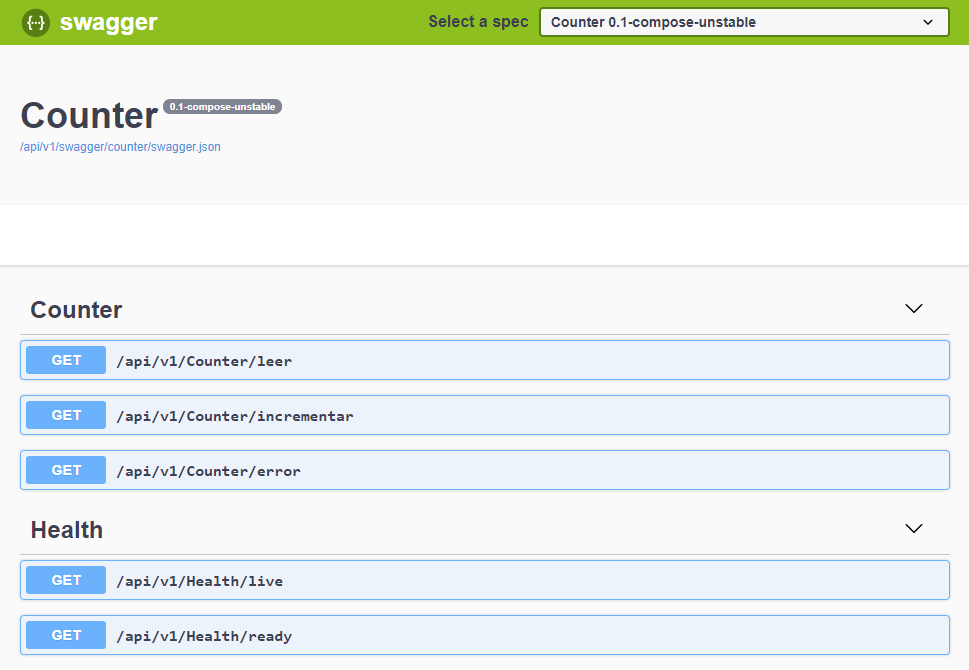
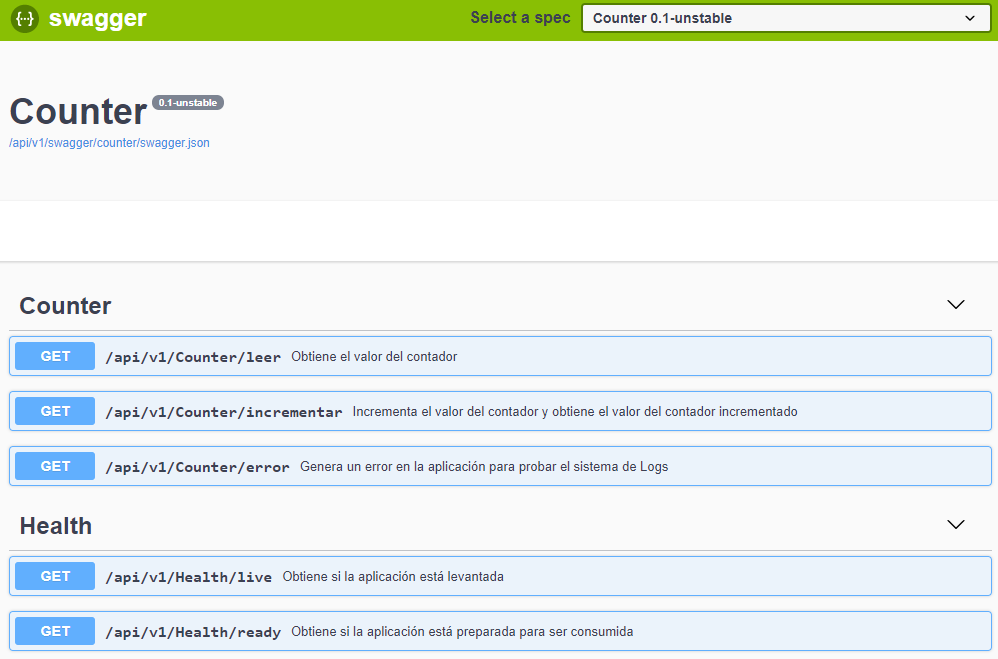
Actualiza documentación

diff --git a/README.md b/README.md
@@ -1,16 +1,18 @@
 # Counter
 
-Proyecto académico con el objetivo de crear una aplicación .NET Core que:
+Proyecto académico con el objetivo de crear una aplicación *.NET Core* que:
+
 1. Consuma una base de datos.
-2. Se pueda ejecutar localmente con [Visual Studio](https://visualstudio.microsoft.com/es/vs/) 2019 (se debe configurar qué servicio Redis debe consumir).
-3. Se pueda ejecutar localmente con [Docker](https://www.docker.com/) (se debe configurar qué servicio Redis debe consumir).
+2. Se pueda ejecutar localmente con [Visual Studio](https://visualstudio.microsoft.com/es/vs/) 2019 (se debe configurar qué servicio Redis externo debe consumir).
+3. Se pueda ejecutar localmente con [Docker](https://www.docker.com/) (se debe configurar qué servicio Redis externo debe consumir).
 4. Se pueda ejecutar localmente con [Docker-compose](https://docs.docker.com/compose/) levantando un servicio Redis y con la aplicación preparada para consumirlo.
-4. Se pueda ejecutar en un clúster Kubernetes en [GKE](https://cloud.google.com/kubernetes-engine/?hl=es) levantando un servicio Redis y con la aplicación preparada para consumirlo.
+5. Se pueda ejecutar en un clúster Kubernetes en [GKE](https://cloud.google.com/kubernetes-engine/?hl=es) levantando un servicio Redis, y con la aplicación preparada para consumirlo.
 6. Publique mensajes de *log* de la aplicación en formato JSON por la salida estándar.
 
 ## Descripción de la aplicación
 
 La aplicación es un servicio Web API simple, que permite utilizar un contador en un servicio Redis, con las siguientes operaciones:
+
 * Leer el contador.
 * Incrementar el contador, y devolver el valor del contador incrementado.
 
@@ -18,23 +20,29 @@ Además, tiene un método auxiliar para generar un error, y comprobar su publica
 
 ## Funcionamiento de la aplicación
 
-El API publicado por la documentación está documentado con [Swagger](https://swagger.io/). Se puede consultar la documentación ejecutando la aplicación, y accediendo a la dirección *http://**host**:**puerto**/api/v1/swagger/index.html*:
+El API publicado por la aplicación está documentado con [Swagger](https://swagger.io/). Se puede consultar la documentación ejecutando la aplicación, y accediendo a la dirección *http://**host**:**puerto**/api/v1/swagger/index.html*:
 
 ![Swagger](./img/swagger.png)
 
-La aplicación se debe configurar con el archivo [appsettings.json](./solution/src/Counter.Web/appsettings.json), para establecer, por ejemplo, la información de conexión con Redis. La configuración puede ser sobreescrita por las variables de entorno que se establezcan el el contexto en el que se ejecute.
+La aplicación se puede configurar con el archivo [appsettings.json](./solution/src/Counter.Web/appsettings.json), para establecer, por ejemplo, la información de conexión con Redis. La configuración puede ser sobreescrita por las variables de entorno que se establezcan en el contexto en el que se ejecute.
 
 ## Requisitos
 
 Para compilar la aplicación es necesario:
+
 * [SKD de .NET Core](https://dotnet.microsoft.com/download) 2.2.
 
 Para ejecutar la aplicación es necesario:
+
 * [Runtime de .NET Core](https://dotnet.microsoft.com/download/dotnet-core/2.2) 2.2.
+
+En los ejemplos se ha utilizado el sistema operativo (aunque no es un requisito esencial):
+
+* [Debian 9](https://www.debian.org/index.es.html).
 
 ## Ejecutar localmente la aplicación
 
-Para la ejecución con **Docker**, es necesario configurar un servidio Redis pre-existente en el archivo [appsettings.json](./solution/src/Counter.Web/appsettings.json):
+Para la ejecución con **Docker**, es necesario configurar la conexión con un servicio Redis pre-existente en el archivo [appsettings.json](./solution/src/Counter.Web/appsettings.json). Una vez configurada, se puede utilizar:
 
 ```bash
 git clone https://github.com/UREURE/netcore-counter.git
@@ -43,7 +51,7 @@ chmod 700 *.sh
 ./start.sh
 ```
 
-Para la ejecución con **Docker-compose** se levanta un servicio Redis junto con el de la aplicación, configurando las variables de entorno en [.env](./solution/.env):
+Para la ejecución con **Docker-compose**, se levanta automáticamente un servicio Redis junto con el de la aplicación, configurando las variables de entorno en el archivo [.env](./solution/.env). Una vez configuradas las variables, se puede utilizar:
 
 ```bash
 git clone https://github.com/UREURE/netcore-counter.git
@@ -55,19 +63,28 @@ chmod 700 *.sh
 ## Ejecutar la aplicación en Kubernetes GKE
 
 Requisitos:
-1. Conectar con un clúster Kubernetes previamente creado en GKE:
+
+* Conectar con un clúster Kubernetes de GCP previamente creado en GKE. Por ejemplo, ejecutando:
 
 ```bash
-gcloud container clusters get-credentials *nombre_clúster_GKE* --zone *zona_clúster_GKE* --project *nombre_proyecto_GCP*
+gcloud container clusters get-credentials <nombre_clúster_GKE> --zone <zona_clúster_GKE> --project <nombre_proyecto_GCP>
 ```
 
-2. Instalar *kubectl*.
+* Tener instalado *kubectl*. Si no se tiene instalado, se puede instalar con:
 
 ```bash
 sudo apt-get install kubectl -y
 ```
 
-Para la ejecución de la aplicación en un clúster de Kubernetes en GKE se utilizan las imágenes subidas de esta aplicación, y de Redis, en [Docker Hub](https://cloud.docker.com/repository/registry-1.docker.io/ureure/netcore-counter), ejecutando:
+* Tener instalado un *Ingress Controller*. Si no se tiene instalado, se puede instalar el de *Nginx* con:
+
+```bash
+kubectl create clusterrolebinding cluster-admin-binding --clusterrole cluster-admin --user $(gcloud config get-value account)
+kubectl apply -f https://raw.githubusercontent.com/kubernetes/ingress-nginx/master/deploy/static/mandatory.yaml
+kubectl apply -f https://raw.githubusercontent.com/kubernetes/ingress-nginx/master/deploy/static/provider/cloud-generic.yaml
+```
+
+Para la ejecución de la aplicación en un clúster de Kubernetes en GKE, se pueden utilizar las imágenes subidas de esta [aplicación](https://cloud.docker.com/repository/registry-1.docker.io/ureure/netcore-counter), y de [Redis](https://hub.docker.com/_/redis), en [Docker Hub](https://hub.docker.com/). Por ejemplo, ejecutando:
 
 ```bash
 git clone https://github.com/UREURE/netcore-counter.git
@@ -75,3 +92,27 @@ cd netcore-counter/k8s
 chmod 700 *.sh
 ./start-kubernetes.sh *poner_aquí_la_contraseña_que_se_desee_poner_para_el_servicio_Redis*
 ```
+
+Una vez instalado, se puede ver en qué IP está expuesta la aplicación fuera del clúster con:
+
+```bash
+kubectl get ingress netcore-counter --namespace=netcore-counter
+```
+
+La IP en la que está expuesta la aplicación fuera del clúster está en el campo *ADRESS*. En este ejemplo, es *34.76.93.8*:
+
+![IP Ingress](./img/ip-ingress.png)
+
+**¡¡¡Atención!!!: La IP generada varía en cada ejercicio de despliegue en Kubernetes. Será necesario modificar el archivo [07_counter-ingress.yaml](./k8s/07_counter-ingress.yaml), reemplazando la IP del ejemplo con la obtenida en el paso anterior. Después de modificar la IP en el archivo, será necesario actualizar el objeto *Ingress* del clúster con**:
+
+```bash
+kubectl apply -f 07_counter-ingress.yaml --namespace=netcore-counter
+```
+
+Utilizando [nip.io](https://nip.io/) se puede acceder a la aplicación fácilmente fuera del clúster. En este ejemplo, está expuesta en "[http://netcore-counter.34.76.93.8.nip.io/api/v1/swagger/index.html"](http://netcore-counter.34.76.93.8.nip.io/api/v1/swagger/index.html):
+
+![Swagger Kubernetes](./img/swagger-kubernetes.png)
+
+En cada ejeercicio realizado, la dirección a utilizar será la resultante de reemplazar la IP del ejemplo con la obtenida anteriormente:
+
+"[http://netcore-counter.<ADRESS>.nip.io/api/v1/swagger/index.html"](http://netcore-counter.<ADRESS>.nip.io/api/v1/swagger/index.html)
